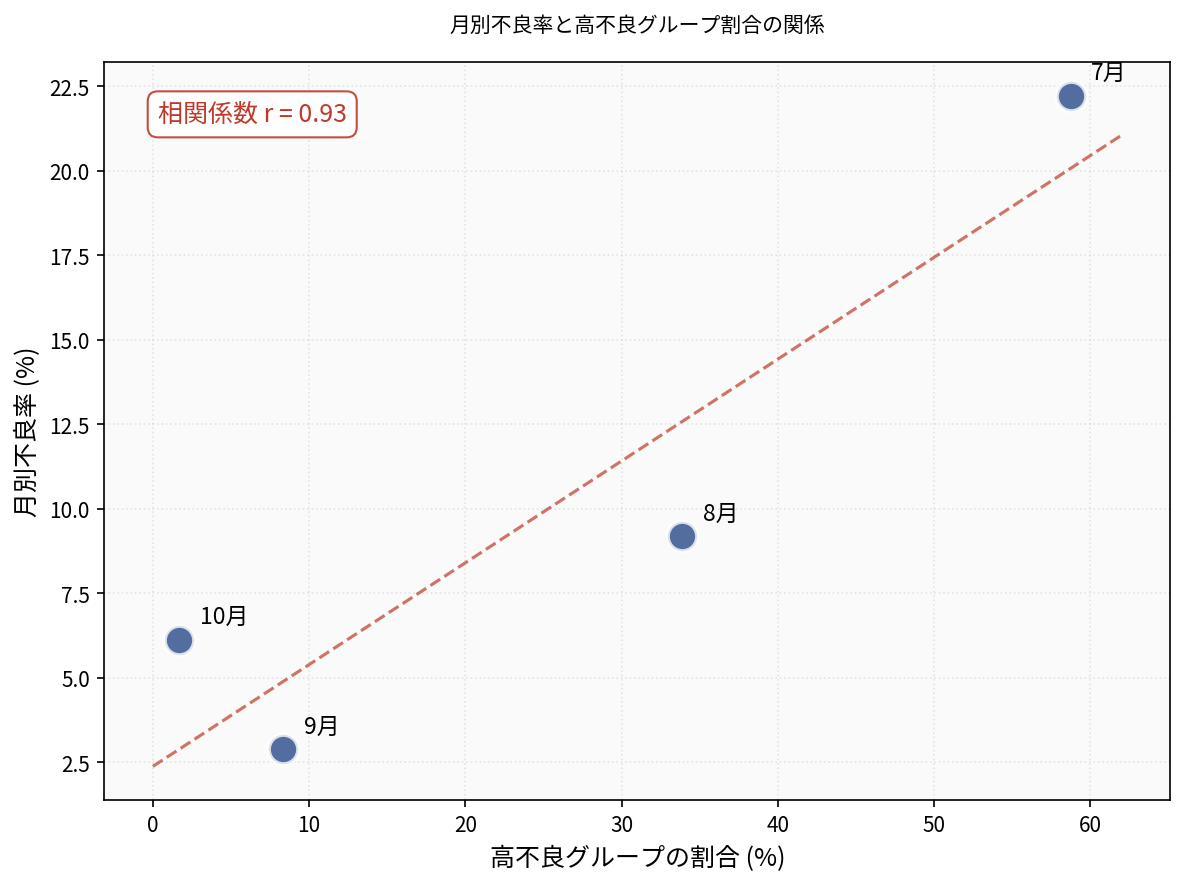
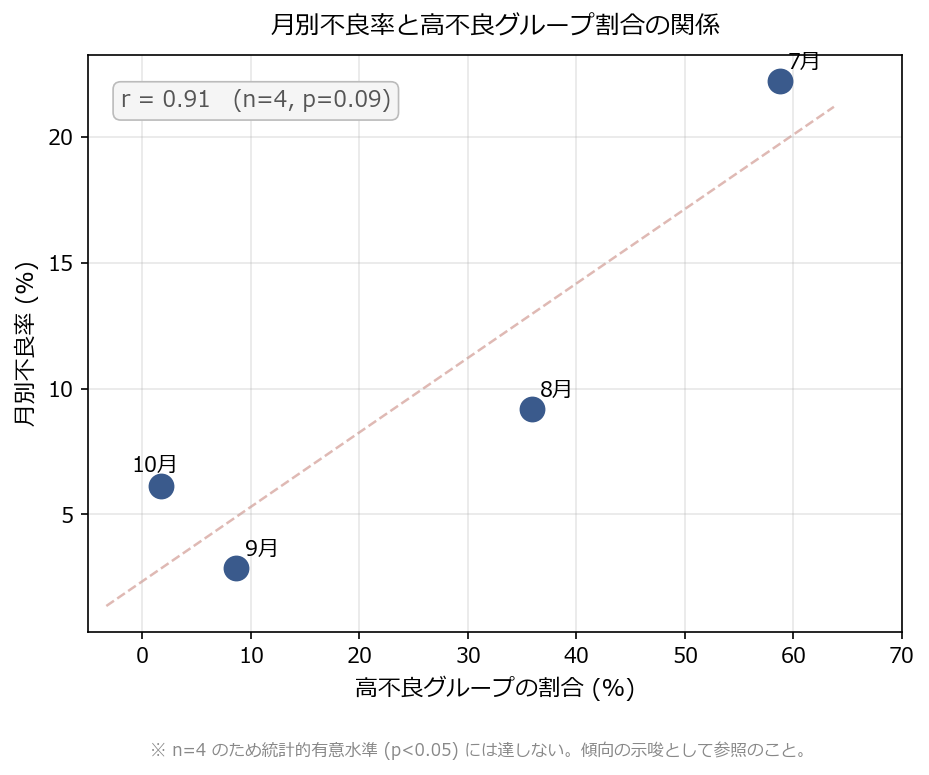
READMEの文言・図を一部修正

diff --git a/README.md b/README.md
@@ -1,6 +1,6 @@
 # SECOM 不良予測 ― データを読み解き、運用可能な形にするまで
 
-半導体製造ラインのセンサーデータ（[UCI SECOM データセット](https://archive.ics.uci.edu/dataset/179/secom)）を題材に、**データリークを排除した厳密な分析**を行い、その結論を**再現可能な推論サービス(FastAPI + Docker)**としてまとめたプロジェクト。
+半導体製造ラインのセンサーデータ（[UCI SECOM データセット](https://archive.ics.uci.edu/dataset/179/secom)）を題材に、**データリークを排除した厳密な分析**を行い、その結論を再現可能な推論サービス(FastAPI + Docker)としてまとめたプロジェクト。
 
 元・電子部品メーカーの製造技術職（不良改善が専門）が、現場感覚とデータ分析を掛け合わせて「このデータが何を物語っているか」を読み解いた記録。
 
@@ -11,7 +11,7 @@
 | **考察編**（Zenn: リンクは公開後に追記） | データをどう読むか。厳密な評価で何が分かったか | `notebooks/`, `reports/figures/` |
 | **実装編**（Zenn: リンクは公開後に追記） | 分析結果をどう運用可能な形にするか。API 化・コンテナ化・再現性 | `src/`, `models/`, `Dockerfile` |
 
-> 予測精度を競うプロジェクトではない。**「精度に限界のあるモデルでも、誰でも同じ結果を再現できる状態にする」**までの一連の流れを示すことが目的。
+> 予測精度を競うプロジェクトではない。「精度に限界のあるモデルでも、誰でも同じ結果を再現できる状態にする」までの一連の流れを示すことが目的。
 
 ---
 
@@ -49,13 +49,13 @@
 
 ![月別の不良率推移](reports/figures/fig2_monthly_defect_rate.png)
 
-さらに、月別不良率の大きな変動（7月 22% → 9月 3%）は、その月にどの品種が多く流れていたか（高不良グループの割合）でほぼ説明できた。相関係数は **0.93**。
+さらに、月別不良率の大きな変動（7月 22% → 9月 3%）は、その月にどの品種が多く流れていたか（高不良グループの割合）と強い正の関係が見られた（r ≈ 0.91）。ただし月数は 4 ヶ月のみ（n=4, p≈0.09）であり、統計的有意水準には達しない。品種ミックス仮説を支持する材料として提示する。
 
 ![月別不良率と高不良グループ割合の関係](reports/figures/fig3_correlation.png)
 
 ### 3. 発見はモデル精度には繋げられなかった（失敗の記録）
 
-品種グループ情報をモデルに組み込もうとしたが、いずれもベースラインを超えられなかった。理由は (1) N 数不足、(2) 時系列で新品種が投入されるドリフト、(3) 既存の欠損フラグに品種情報が既に含まれていた、の 3 つ。発見が必ず性能改善に結びつくわけではない、という教訓が残った。
+「グループで不良率がこれだけ違うなら、グループ情報をモデルに教えれば精度が上がるはず」と考え、グループ ID の特徴量追加など複数の方法を試みたが、いずれもベースラインを超えられなかった。理由は 3 つ——(1) グループあたりのサンプル数が少なく安定した学習ができない、(2) 時系列評価では学習時に未知だったグループがテスト期に出現するドリフトが起きる、(3) そもそも欠損フラグにグループ情報がすでに含まれており新情報にならない——が重なった結果だった。「面白い発見」が必ず精度改善に結びつくとは限らない、という教訓が残った。
 
 ![各foldでの新グループ出現率](reports/figures/fig5_fold_new_group.png)
 